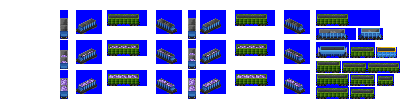
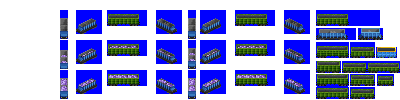
Change: gen 6 dump car

Changed region(s): [[0.78, 0.45, 0.87, 0.57]]

diff --git a/src/vehicles/dump_cars.py b/src/vehicles/dump_cars.py
@@ -118,6 +118,24 @@ def main():
                               spritesheet_suffix=1,
                               graphics_processor=consist.graphics_processors[1])
 
+    consist = DumpConsist(roster='pony',
+                          base_numeric_id=2390,
+                          gen=6,
+                          subtype='B')
+
+    consist.add_unit(type=FreightCar,
+                     capacity=40,
+                     vehicle_length=8)
+
+    consist.add_model_variant(start_date=0,
+                              end_date=global_constants.max_game_date,
+                              spritesheet_suffix=0,
+                              graphics_processor=consist.graphics_processors[0])
+
+    consist.add_model_variant(start_date=0,
+                              end_date=global_constants.max_game_date,
+                              spritesheet_suffix=1,
+                              graphics_processor=consist.graphics_processors[1])
     #--------------- llama ----------------------------------------------------------------------
 
     #--------------- antelope ----------------------------------------------------------------------
